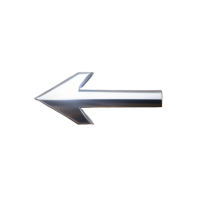
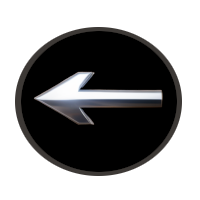
Modificado el aspecto de la UI

diff --git a/Scenes/GameFlowScene.py b/Scenes/GameFlowScene.py
@@ -5,7 +5,7 @@ import pygame
 from Scenes.MiniGameManager import MiniGameManager
 from Scenes.Scene import Scene
 from Scenes.starfight.Alien import Alien
-from data.DrawUtils import addText, dibujarFondos
+from data.DrawUtils import addText, dibujarFondos, addAlienText
 from data.leermisiones import leer_mensaje_inicial
 from data.stringutils import wraptext
 
@@ -37,26 +37,38 @@ class GameFlowScene(Scene):
     def addInitialDesc(self, screen, mensaje_inicial):
 
         # Crear una fuente
-        fuente = pygame.font.Font(None, 20)
+        fuente = pygame.font.Font(None, 25)
 
         lineas = wraptext(mensaje_inicial, fuente, 500)
         for i, linea in enumerate(lineas):
             texto_renderizado = fuente.render(linea, True, "#0000ff")
-            screen.blit(texto_renderizado, (225, 450 + i * fuente.get_height()))
+            screen.blit(texto_renderizado, (225, 575 + i * fuente.get_height()))
+        # Posición inicial de y
+        y_pos = 0
+
+        # todo intento de hacer scroll para los textos
+        # arrowup_image = pygame.image.load(os.path.join("recursos", os.path.join(os.path.join("imagenes", "ui")
+        #                                                                         , "uparrow.png")))
+        # screen.blit(arrowup_image, (700, 550, 10, 10))
+        # arrowdown_image = pygame.image.load(os.path.join("recursos", os.path.join(os.path.join("imagenes", "ui")
+        #                                                                           , "downarrow.png")))
+        # screen.blit(arrowdown_image, (700, 650, 10, 10))
 
         if self.oldtext is None or self.oldtext != mensaje_inicial:
             self.oldtext = mensaje_inicial
             super().callReader(mensaje_inicial)
 
+
     def addDescription(self, screen, mensaje_inicial, opcionA, opcionB):
 
         # Crear una fuente
-        fuente = pygame.font.Font(None, 20)
+        fuente = pygame.font.Font(None, 25)
 
         lineas = wraptext(mensaje_inicial, fuente, 500)
+
         for i, linea in enumerate(lineas):
             texto_renderizado = fuente.render(linea, True, "#0000ff")
-            screen.blit(texto_renderizado, (225, 450 + i * fuente.get_height()))
+            screen.blit(texto_renderizado, (225, 575 + i * fuente.get_height()))
 
         if self.oldtext is None or self.oldtext != mensaje_inicial:
             self.oldtext = mensaje_inicial
@@ -92,8 +104,11 @@ class GameFlowScene(Scene):
     def selectButton(self, mouse_pos):
 
         print(mouse_pos)
-        if pygame.Rect(25, 375, 150, 150).collidepoint(mouse_pos):
+
+        if pygame.Rect(935, 635, 65, 65).collidepoint(mouse_pos):
+            super().closeReader()
             if self.opcionA == None and self.opcionB == None:
+                #primera ejecucion cuando se carga una mision nueva
                 print("selected: new mission")
                 randMisionPosition = random.randint(0, len(self.activeGameState.misiones) - 1)
                 randMission = self.activeGameState.misiones[randMisionPosition]
@@ -107,19 +122,21 @@ class GameFlowScene(Scene):
                 self.folder = "misiones"
                 self.filename = self.misionActual["image"]
                 if "alien" in self.misionActual.keys():
-                    self.alien = self.misionActual["alien"]
+                    self.alien = Alien(self.misionActual["alien"])
                 else:
                     self.alien = None
                 self.renderRequired = True
 
         if self.opcionA != None and pygame.Rect(250, 725, 200, 40).collidepoint(mouse_pos):
+            #ejecucion cuando se selcciona la opcion a
+            super().closeReader()
             self.renderRequired = True
             print("opcionA selected")
             if "minijuego" in self.opcionA["accion"].keys():
                 self.minijuego = self.opcionA["accion"]["minijuego"]
                 if self.minijuego == "starfight":
-                    self.new_scene = MiniGameManager(self, "starfight", Alien(self.misionActual["alien"]),
-                                                      self.activeGameState, self.opcionA)
+                    self.new_scene = MiniGameManager(self, "starfight", self.alien,
+                                                     self.activeGameState, self.opcionA)
                     if self.new_scene != None:
                         self.switch_on = True
                         self.add_new_scene(self.new_scene)
@@ -127,12 +144,14 @@ class GameFlowScene(Scene):
             else:
                 self.aplicar_opcion(self.opcionA)
         if self.opcionB != None and pygame.Rect(525, 725, 200, 40).collidepoint(mouse_pos):
+            # ejecucion cuando se selcciona la opcion B
+            super().closeReader()
             self.renderRequired = True
             print("opcionB")
             if "minijuego" in self.opcionB["accion"].keys():
                 self.minijuego = self.opcionB["accion"]["minijuego"]
                 if self.minijuego == "starfight":
-                    self.next_scene = MiniGameManager(self, "starfight", Alien(self.misionActual["alien"]),
+                    self.next_scene = MiniGameManager(self, "starfight", self.alien,
                                                       self.activeGameState)
                     if self.new_scene != None:
                         self.switch_on = True
@@ -191,17 +210,34 @@ class GameFlowScene(Scene):
             if self.alien == None:
                 self.dibujarAlien(screen, 'personajes', "ruido.png")
             else:
-                self.dibujarAlien(screen, "aliens", self.alien["image"])
+                self.dibujarAlien(screen, "aliens", self.alien.image)
 
-            nombre_rect = (900, 740)
-            karma_rect = (970, 625)
-            ataque_rect = (970, 650)
-            defensa_rect = (970, 675)
+            nombre_rect = (850, 730)
+            karma_rect = (970, 565)
+            ataque_rect = (970, 590)
+            defensa_rect = (970, 615)
             addText(screen, self.activeGameState.nombre, "K: " + str(self.activeGameState.karma),
                     "A: " + str(self.activeGameState.ataque), "D: " + str(self.activeGameState.defensa), nombre_rect,
-                    karma_rect, ataque_rect, defensa_rect)
-            message = ""
-            #        self.misionActual = leer_misiones()[self.misionActual]
+                    karma_rect, ataque_rect, defensa_rect, 36)
+
+
+            nombre_rect = (850, 730)
+            karma_rect = (970, 565)
+            ataque_rect = (970, 590)
+            defensa_rect = (970, 615)
+            addText(screen, self.activeGameState.nombre, "K: " + str(self.activeGameState.karma),
+                    "A: " + str(self.activeGameState.ataque), "D: " + str(self.activeGameState.defensa), nombre_rect,
+                    karma_rect, ataque_rect, defensa_rect, 36)
+
+            if self.alien != None:
+                nombre_alien_rect = (90, 725)
+                karma_alien_rect = (65, 750)
+                ataque_alien_rect = (85, 750)
+                defensa_alien_rect = (105, 750)
+                addAlienText(screen, self.alien.nombre, "K: " + str(self.alien.karma),
+                        "A: " + str(self.alien.ataque), "D: " + str(self.alien.defensa), nombre_alien_rect,
+                        karma_alien_rect, ataque_alien_rect, defensa_alien_rect, 36, 15)
+
             if self.misionActual == None:
                 self.addInitialDesc(screen, leer_mensaje_inicial())
             else:
@@ -213,9 +249,9 @@ class GameFlowScene(Scene):
     def dibujarFondos(self, screen):
         # descripcion
         rect_x = 200
-        rect_y = 425
+        rect_y = 550
         rect_width = 550
-        rect_height = 300
+        rect_height = 210
         color_interior = "#5a5a5a"
         color_borde = "#a5a5a5"
         dibujarFondos(screen, rect_x, rect_y, rect_width, rect_height, color_interior, color_borde)
@@ -228,24 +264,24 @@ class GameFlowScene(Scene):
         dibujarFondos(screen, rect_x, rect_y, rect_width, rect_height, color_interior, color_borde)
 
         # alien
-        rect_x = 25
-        rect_y = 575
-        rect_width = 150
-        rect_height = 150
+        rect_x = 20
+        rect_y = 550
+        rect_width = 160
+        rect_height = 210
         dibujarFondos(screen, rect_x, rect_y, rect_width, rect_height, color_interior, color_borde)
 
         # dado
-        rect_x = 850
-        rect_y = 375
-        rect_width = 150
-        rect_height = 150
-        dibujarFondos(screen, rect_x, rect_y, rect_width, rect_height, color_interior, color_borde)
+        # rect_x = 850
+        # rect_y = 375
+        # rect_width = 150
+        # rect_height = 150
+        # dibujarFondos(screen, rect_x, rect_y, rect_width, rect_height, color_interior, color_borde)
 
         # salto
-        rect_x = 25
-        rect_y = 375
-        rect_width = 150
-        rect_height = 150
+        rect_x = 935
+        rect_y = 635
+        rect_width = 65
+        rect_height = 65
         dibujarFondos(screen, rect_x, rect_y, rect_width, rect_height, color_interior, color_borde)
 
         # opciones dialogo
@@ -268,25 +304,24 @@ class GameFlowScene(Scene):
         background_image = pygame.image.load(os.path.join("recursos", os.path.join(os.path.join("imagenes", "nave")
                                                                                    , "skin_nave.png")))
         screen.blit(background_image, (0, 0))
-        avatar_image = pygame.image.load(os.path.join("recursos", os.path.join(os.path.join("imagenes", "nave")
-                                                                               , "skin_nave.png")))
-        screen.blit(background_image, (0, 0))
         pygame.Rect(775, 575, 150, 150)
         pass
 
     def dibujarPersonaje(self, screen, imagen):
         personaje = os.path.join('recursos', 'imagenes', 'personajes', imagen)
         personaje_image = pygame.transform.scale(pygame.image.load(personaje), (150, 150))
-        screen.blit(personaje_image, pygame.Rect(775, 575, 150, 150))
+        screen.blit(personaje_image, pygame.Rect(775, 555, 150, 150))
 
     def dibujarUI(self, screen):
-        personaje = os.path.join('recursos', 'imagenes', 'ui', "turbo.png")
-        personaje_image = pygame.transform.scale(pygame.image.load(personaje), (150, 150))
-        screen.blit(personaje_image, pygame.Rect(25, 375, 150, 150))
 
-        personaje = os.path.join('recursos', 'imagenes', 'ui', "dado.png")
-        personaje_image = pygame.transform.scale(pygame.image.load(personaje), (150, 150))
-        screen.blit(personaje_image, pygame.Rect(850, 375, 150, 150))
+        #defensa_rect = (970, 625)
+        personaje = os.path.join('recursos', 'imagenes', 'ui', "turbo.png")
+        personaje_image = pygame.transform.scale(pygame.image.load(personaje), (65, 65))
+        screen.blit(personaje_image, pygame.Rect(935, 635, 65, 65))
+        # dado
+        # personaje = os.path.join('recursos', 'imagenes', 'ui', "dado.png")
+        # personaje_image = pygame.transform.scale(pygame.image.load(personaje), (150, 150))
+        # screen.blit(personaje_image, pygame.Rect(850, 375, 150, 150))
 
     def dibujarAlien(self, screen, folder, imagen):
         personaje = os.path.join('recursos', 'imagenes', folder, imagen)
@@ -297,4 +332,4 @@ class GameFlowScene(Scene):
             numero_aleatorio = random.choice(numeros)
         personaje_image = pygame.transform.rotate(pygame.transform.scale(pygame.image.load(personaje), (150, 150)),
                                                   numero_aleatorio)
-        screen.blit(personaje_image, pygame.Rect(25, 575, 150, 150))
+        screen.blit(personaje_image, pygame.Rect(25, 555, 150, 150))

diff --git a/data/DrawUtils.py b/data/DrawUtils.py
@@ -1,10 +1,53 @@
 import pygame
 
 
-def addText(screen, nombre, karma, ataque, defensa, nombre_rect, karma_rect, ataque_rect, defensa_rect):
+def addAlienText(screen, nombre, karma, ataque, defensa, nombre_rect, karma_rect, ataque_rect, defensa_rect, text_size, stats_size):
 
     # Crear una fuente
-    fuente = pygame.font.Font(None, 36)
+    fuente = pygame.font.Font(None, text_size)
+
+    # Renderizar el texto con fondo
+    fondo = fuente.render(nombre, True, "#0000ff")  # Renderizar el texto en un fondo azul
+
+    # Obtener las dimensiones del fondo
+    fondo_rect = fondo.get_rect()
+
+    # Centrar el fondo en la ventana
+    fondo_rect.center = nombre_rect
+    screen.blit(fondo, fondo_rect)
+
+    fuente = pygame.font.Font(None, stats_size)
+    fondo = fuente.render(karma, True, "#0000ff")  # Renderizar el texto en un fondo azul
+
+    # Obtener las dimensiones del fondo
+    fondo_rect = fondo.get_rect()
+
+    # Centrar el fondo en la ventana
+    fondo_rect.center = karma_rect
+    screen.blit(fondo, fondo_rect)
+
+    fondo = fuente.render(ataque, True, "#0000ff")  # Renderizar el texto en un fondo azul
+
+    # Obtener las dimensiones del fondo
+    fondo_rect = fondo.get_rect()
+
+    # Centrar el fondo en la ventana
+    fondo_rect.center = ataque_rect
+    screen.blit(fondo, fondo_rect)
+
+    fondo = fuente.render(defensa, True, "#0000ff")  # Renderizar el texto en un fondo azul
+
+    # Obtener las dimensiones del fondo
+    fondo_rect = fondo.get_rect()
+
+    # Centrar el fondo en la ventana
+    fondo_rect.center = defensa_rect
+    screen.blit(fondo, fondo_rect)
+
+def addText(screen, nombre, karma, ataque, defensa, nombre_rect, karma_rect, ataque_rect, defensa_rect, text_size):
+
+    # Crear una fuente
+    fuente = pygame.font.Font(None, text_size)
 
     # Renderizar el texto con fondo
     fondo = fuente.render(nombre, True, "#0000ff")  # Renderizar el texto en un fondo azul

diff --git a/Scenes/TitleScene.py b/Scenes/TitleScene.py
@@ -105,7 +105,7 @@ class TitleScene(Scene):
         karma_rect = (825, 175)
         ataque_rect =  (825, 150)
         defensa_rect = (825, 125)
-        addText(screen, nombre, "Karma: " + str(karma), "Ataque: " + str(ataque), "Defensa: " + str(defensa), nombre_rect, karma_rect, ataque_rect, defensa_rect)
+        addText(screen, nombre, "Karma: " + str(karma), "Ataque: " + str(ataque), "Defensa: " + str(defensa), nombre_rect, karma_rect, ataque_rect, defensa_rect, 36)
         self.addDesc(screen, descripcion)
         super().render(screen)
         # Suponiendo que left_arrow es otra imagen que has cargado previamente
@@ -162,6 +162,8 @@ class TitleScene(Scene):
     def selectButton(self, mouse_pos):
 
         if self.right_arrow != None and pos_rightarrow.collidepoint(mouse_pos):
+
+            super().closeReader()
             print("right")
 
             if self.posicionActual == len(self.personajes)-1:
@@ -170,6 +172,8 @@ class TitleScene(Scene):
                 self.posicionActual = self.posicionActual + 1
 
         elif self.left_arrow != None and pos_leftarrow.collidepoint(mouse_pos):
+
+            super().closeReader()
             print("left")
             if self.posicionActual == 0:
                 self.posicionActual = len(self.personajes)-1
@@ -180,6 +184,7 @@ class TitleScene(Scene):
 
     def selectCharacter(self, mouse_pos):
         if  pos_image.collidepoint(mouse_pos):
+            super().closeReader()
             print("enter")
             nextScene = GameFlowScene()
             nextScene.initScene(self.activeGameState)

diff --git a/Scenes/starfight/Starfight.py b/Scenes/starfight/Starfight.py
@@ -55,7 +55,8 @@ class Starfight(Scene):
                     print("enemigo derrotado")
                     self.game_win = True
                 else:
-                    self.misil.live = False
+                    if self.misil.live != None:
+                        self.misil.live = False
 
         for misil in self.alienship.misiles:
             if misil.live and misil.rect.colliderect(self.nave.rect):
@@ -64,7 +65,8 @@ class Starfight(Scene):
                     print("Jugador muerto")
                     self.game_over = True
                 else:
-                    self.misil.live = False
+                    if self.misil.live != None:
+                        self.misil.live = False
 
         self.nave.update(self.activeGameState.get_delta_time())
         self.alienship.update(self.activeGameState.get_delta_time())

diff --git a/Scenes/Scene.py b/Scenes/Scene.py
@@ -44,13 +44,15 @@ class Scene:
             self.exitcheck(event)
             if event.type == pygame.MOUSEBUTTONDOWN:
                 print("boton presionado")
+                #todo control to close the reader only if match in any button
                 mouse_pos = pygame.mouse.get_pos()
-                self.closeReader()
+                # self.closeReader()
                 self.exitbutton(mouse_pos)
         return False
 
     def exitbutton(self, mouse_pos):
         if self.exit_button != None and self.exit_button.collidepoint(mouse_pos):
+            self.closeReader()
             pygame.quit()
             sys.exit()
 

diff --git a/Scenes/starfight/Alien.py b/Scenes/starfight/Alien.py
@@ -3,3 +3,6 @@ class Alien:
     def __init__(self, alien_json):
         self.defensa = alien_json["defensa"]
         self.ataque = alien_json["ataque"]
+        self.karma = alien_json["karma"]
+        self.nombre = alien_json["nombre"]
+        self.image = alien_json["image"]
